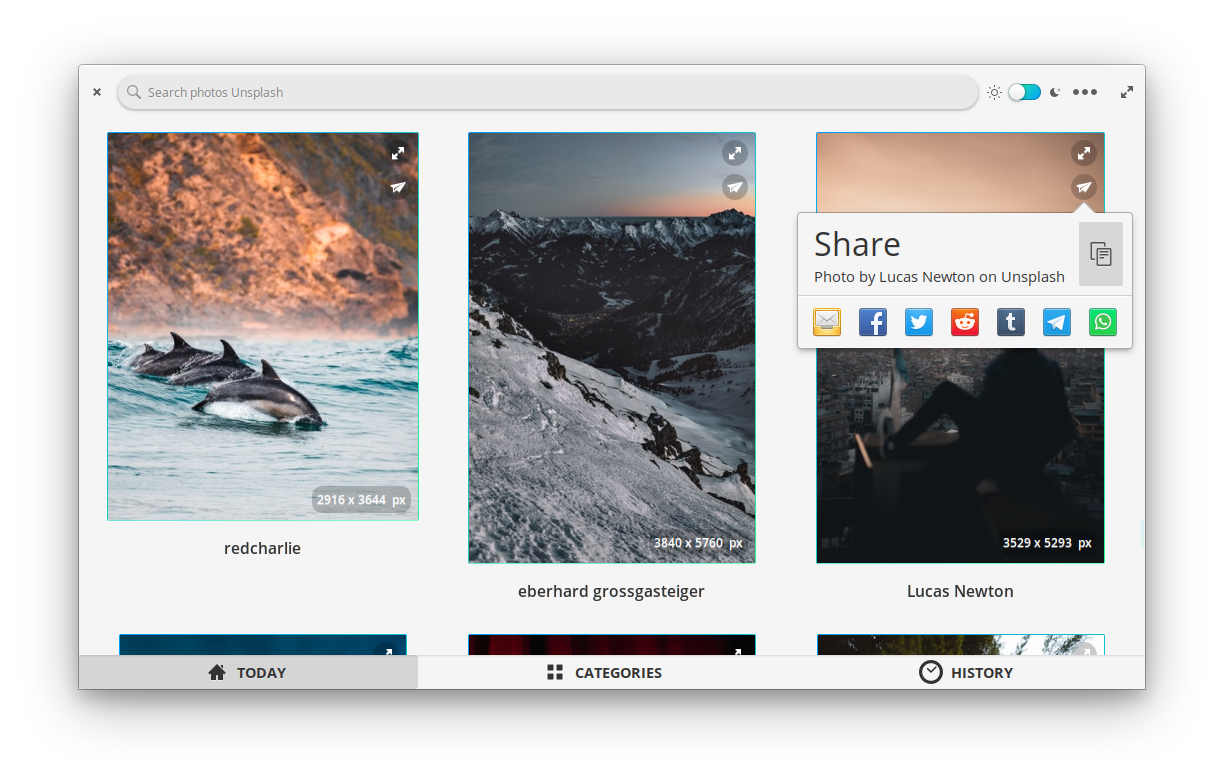
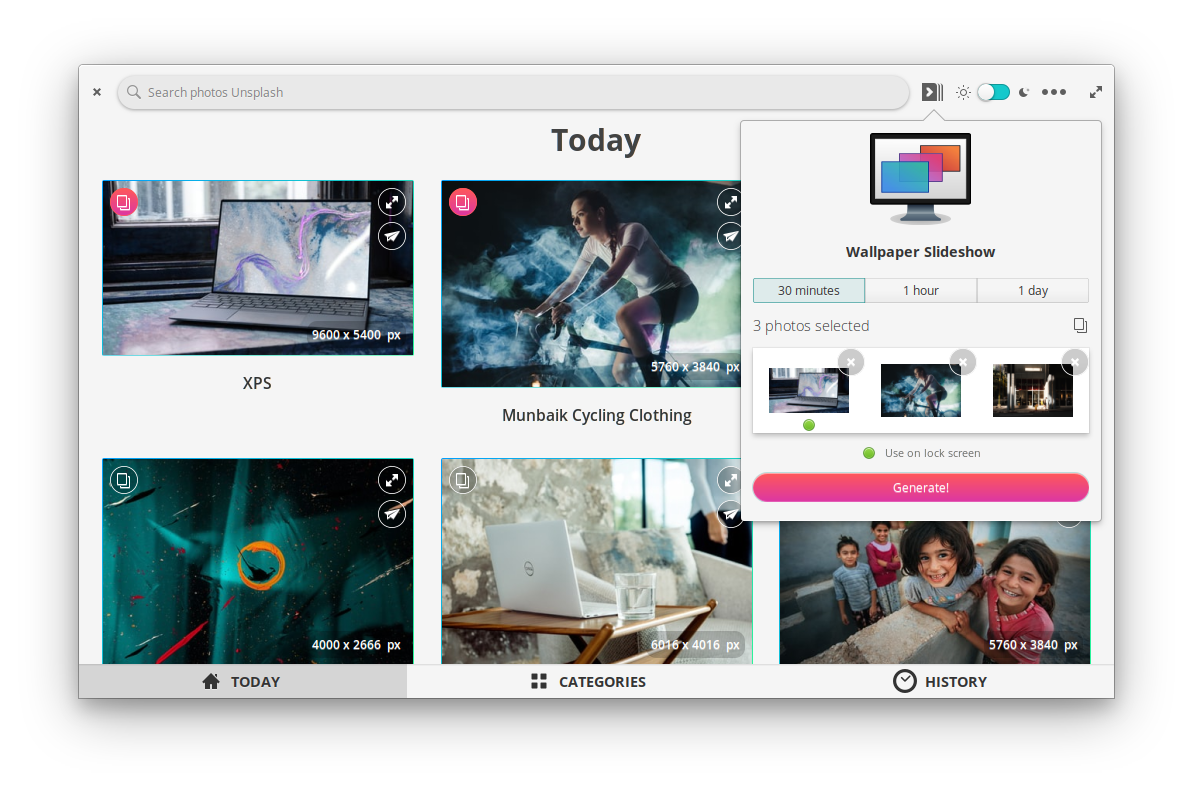
update version and screenshots

diff --git a/README.md b/README.md
@@ -15,7 +15,7 @@
 
 <p align="center">
   <a href="https://github.com/calo001/fondo">
-    <img src="https://img.shields.io/badge/Version-1.3.10-orange.svg">
+    <img src="https://img.shields.io/badge/Version-1.4.0-orange.svg">
   </a>
   <a href="https://github.com/calo001/fondo/blob/master/LICENSE.md">
     <img src="https://img.shields.io/badge/License-GPL%20v3-blue.svg">
